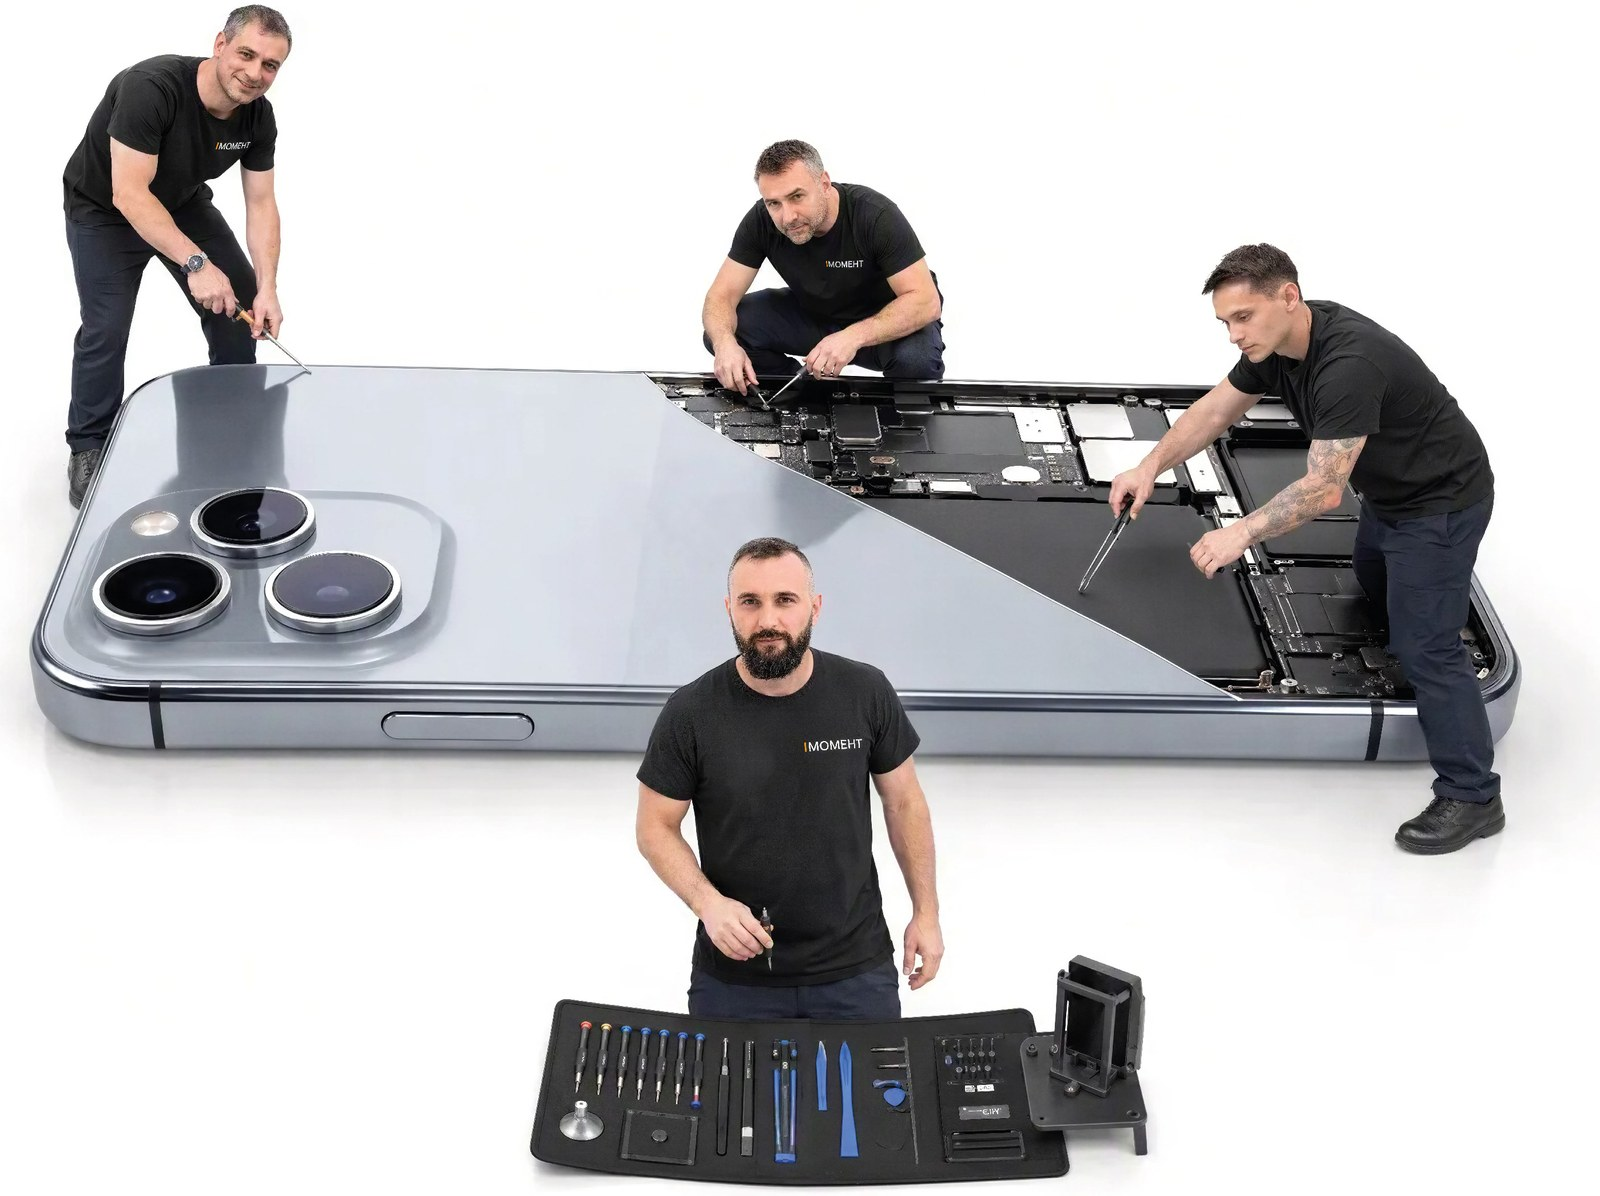
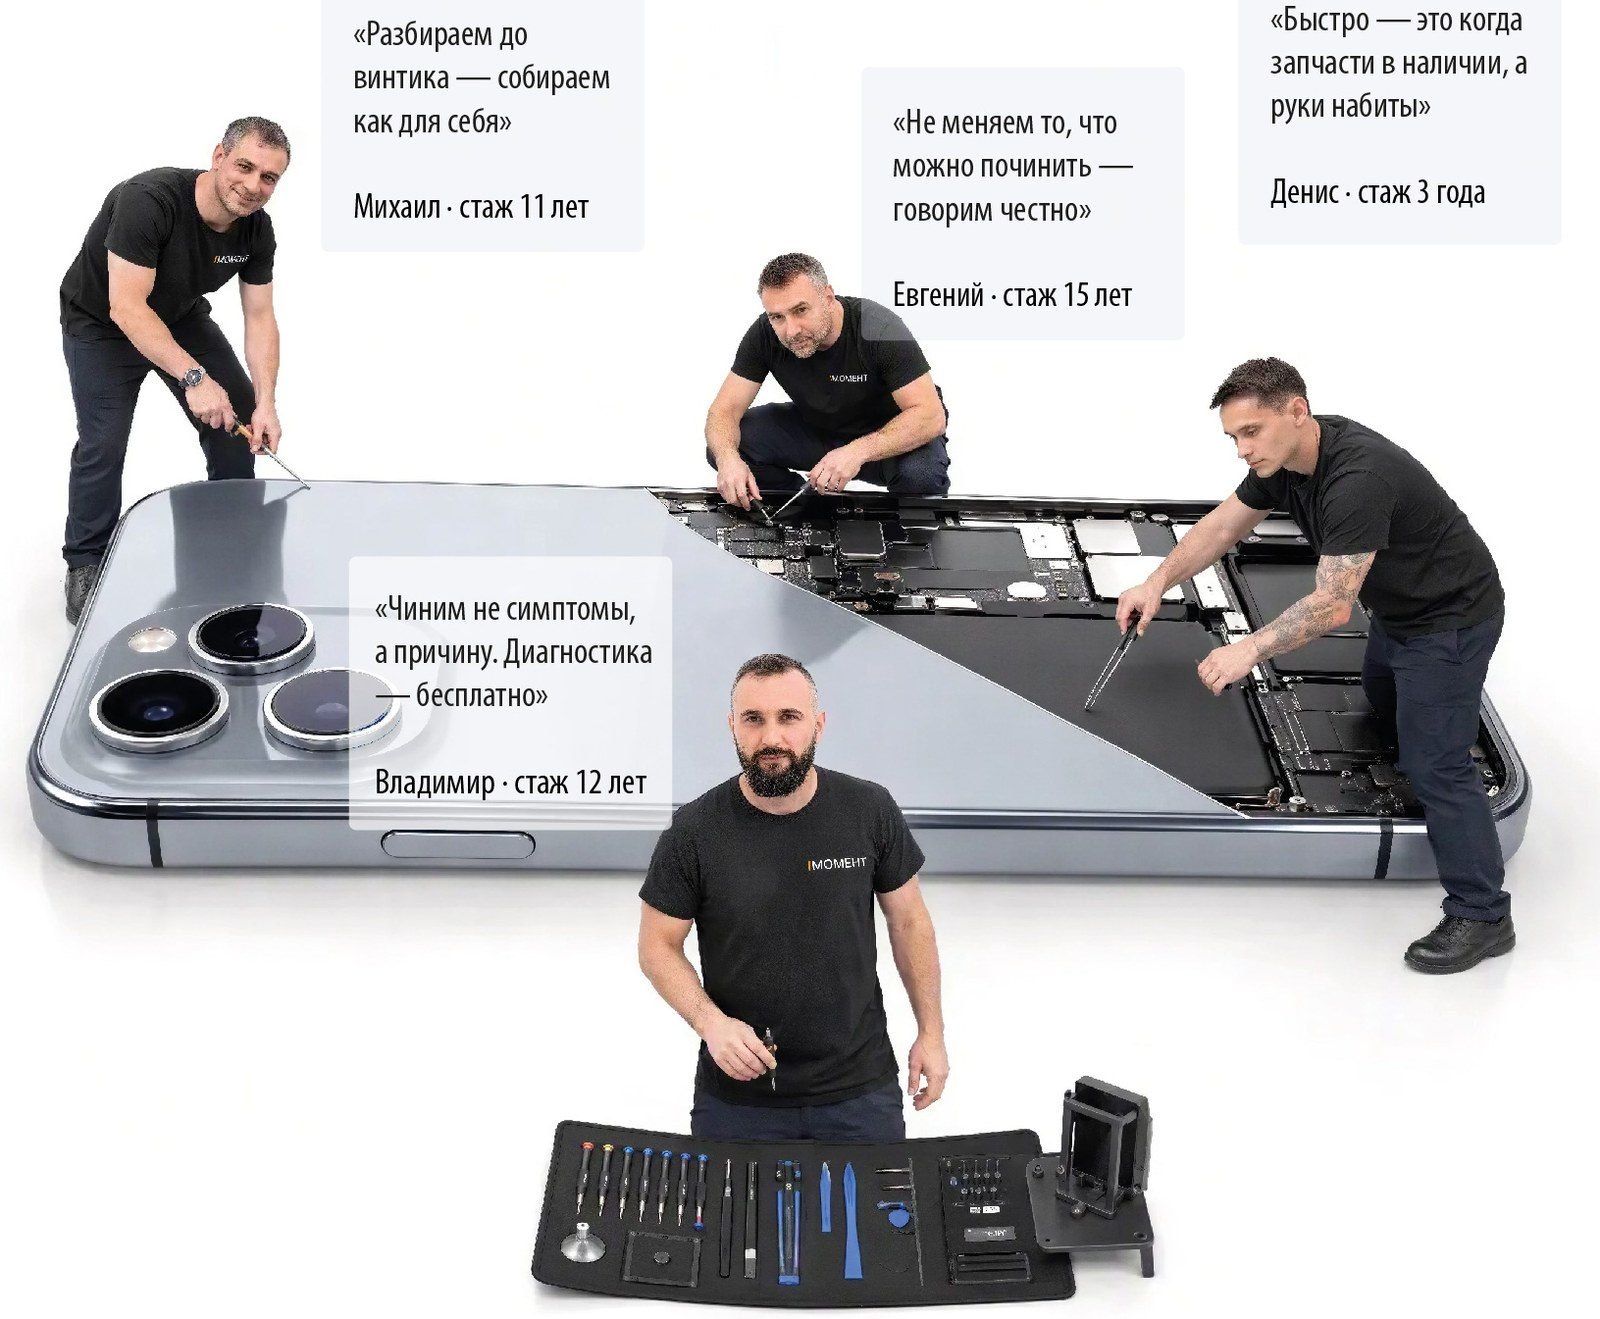
Add files via upload

diff --git a/index.html b/index.html
@@ -55,9 +55,9 @@
     color: #fff;
     box-shadow: var(--rp-shadow);
   }
-  .hero-top { text-align: center; padding: 32px 20px 0; }
+  .hero-top { text-align: center; padding: 26px 20px 0; }
   .hero-logo-img { display: block; width: 250px; max-width: 66%; margin: 0 auto; }
-  .hero-photo { margin-top: 20px; background: #0e0e0e; }
+  .hero-photo { margin-top: 8px; background: #0e0e0e; }
   .hero-photo img { width: 100%; display: block; }
   .hero-badges { display: flex; flex-wrap: wrap; gap: 8px; justify-content: center; padding: 22px 20px 0; }
   .hero-badges span {
@@ -236,15 +236,7 @@
   /* ===== Фото команды (внизу, после отзывов) + цитаты мастеров ===== */
   .team-wrap { position: relative; margin-top: 18px; border-radius: var(--rp-radius); overflow: hidden; }
   .team-wrap .team-photo { width: 100%; display: block; }
-  .team-strip {
-    position: absolute; left: 0; right: 0; bottom: 0;
-    display: grid; grid-template-columns: repeat(4, 1fr); gap: 12px;
-    padding: 30px 16px 14px;
-    background: linear-gradient(to top, rgba(17, 24, 39, .85) 30%, rgba(17, 24, 39, 0));
-    pointer-events: none;
-  }
-  .ts-quote { color: #fff; font-size: 11.5px; line-height: 1.4; font-style: italic; opacity: .96; }
-  .ts-name { margin-top: 6px; color: #fbbf24; font-size: 11.5px; font-weight: 700; }
+
 
   /* ===== Отзывы ===== */
   .im-reviews { display: grid; grid-template-columns: repeat(3, 1fr); gap: 12px; margin: 12px 0 14px; }
@@ -336,9 +328,7 @@
     .hero-title { font-size: 25px; }
     .hero-sub-img { width: min(340px, 88%); margin-top: 12px; }
     .hero-cta { grid-template-columns: 1fr; padding: 18px 16px 22px; }
-    .team-strip { grid-template-columns: 1fr 1fr; gap: 8px; padding: 22px 10px 10px; }
-    .ts-quote { font-size: 10px; }
-    .ts-name { font-size: 10px; margin-top: 4px; }
+
     .rp-grid { grid-template-columns: 1fr; gap: 12px; }
     .rp-total { flex-direction: column; align-items: flex-start; padding: 16px; }
     .rp-total-val { font-size: 26px; }
@@ -463,27 +453,9 @@
     <div class="im-reviews" id="imReviews"></div>
     <div class="rv-more-row"><button class="rp-cta rp-cta-tg" id="rvMore" type="button" style="display:none">Показать ещё отзывы</button></div>
 
-    <!-- Фото команды — в самом низу, после отзывов; цитаты и подписи (рыба, отредактируйте) -->
+    <!-- Фото команды с цитатами — в самом низу, после отзывов -->
     <div class="team-wrap">
       <img class="team-photo" src="team.jpg" alt="Команда iМомент за работой" loading="lazy">
-      <div class="team-strip">
-        <div class="ts-cell">
-          <div class="ts-quote">«Быстро — это когда запчасти в наличии, а руки набиты»</div>
-          <div class="ts-name">Дмитрий · стаж 8 лет</div>
-        </div>
-        <div class="ts-cell">
-          <div class="ts-quote">«Разбираем до винтика — собираем как для себя»</div>
-          <div class="ts-name">Артём · стаж 6 лет</div>
-        </div>
-        <div class="ts-cell">
-          <div class="ts-quote">«Не меняем то, что можно починить — говорим честно»</div>
-          <div class="ts-name">Максим · стаж 10 лет</div>
-        </div>
-        <div class="ts-cell">
-          <div class="ts-quote">«Чиним не симптомы, а причину. Диагностика — бесплатно»</div>
-          <div class="ts-name">Александр · основатель · стаж 12 лет</div>
-        </div>
-      </div>
     </div>
 
     <div class="rp-foot">Работаем ежедневно с 10:00 до 21:45 · 3 филиала · Защитное стекло — 500 ₽</div>
